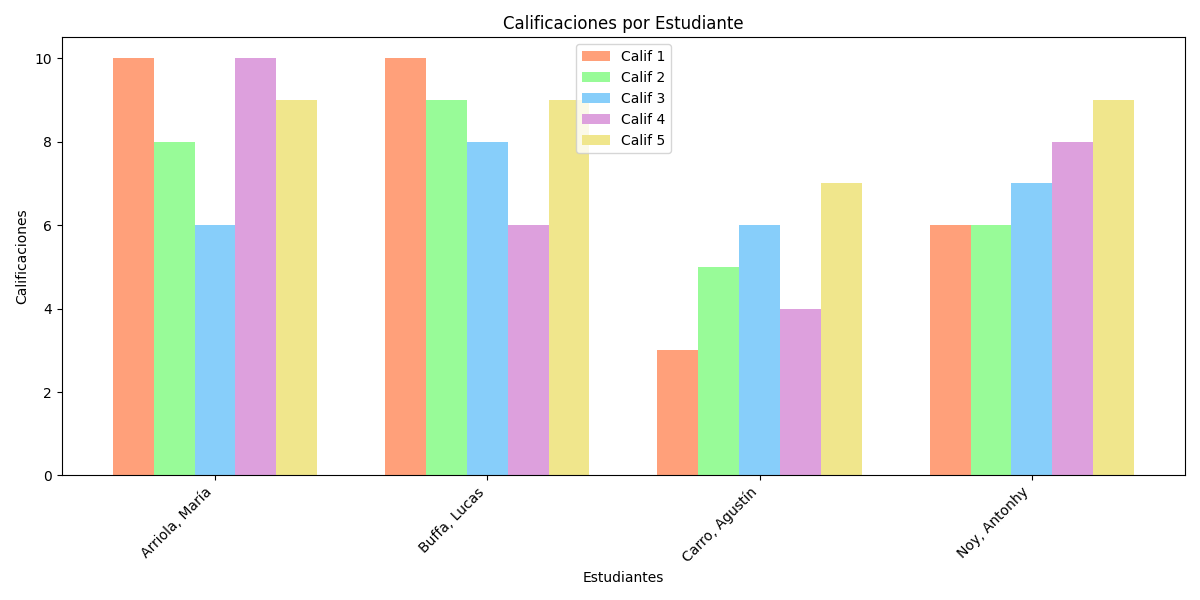
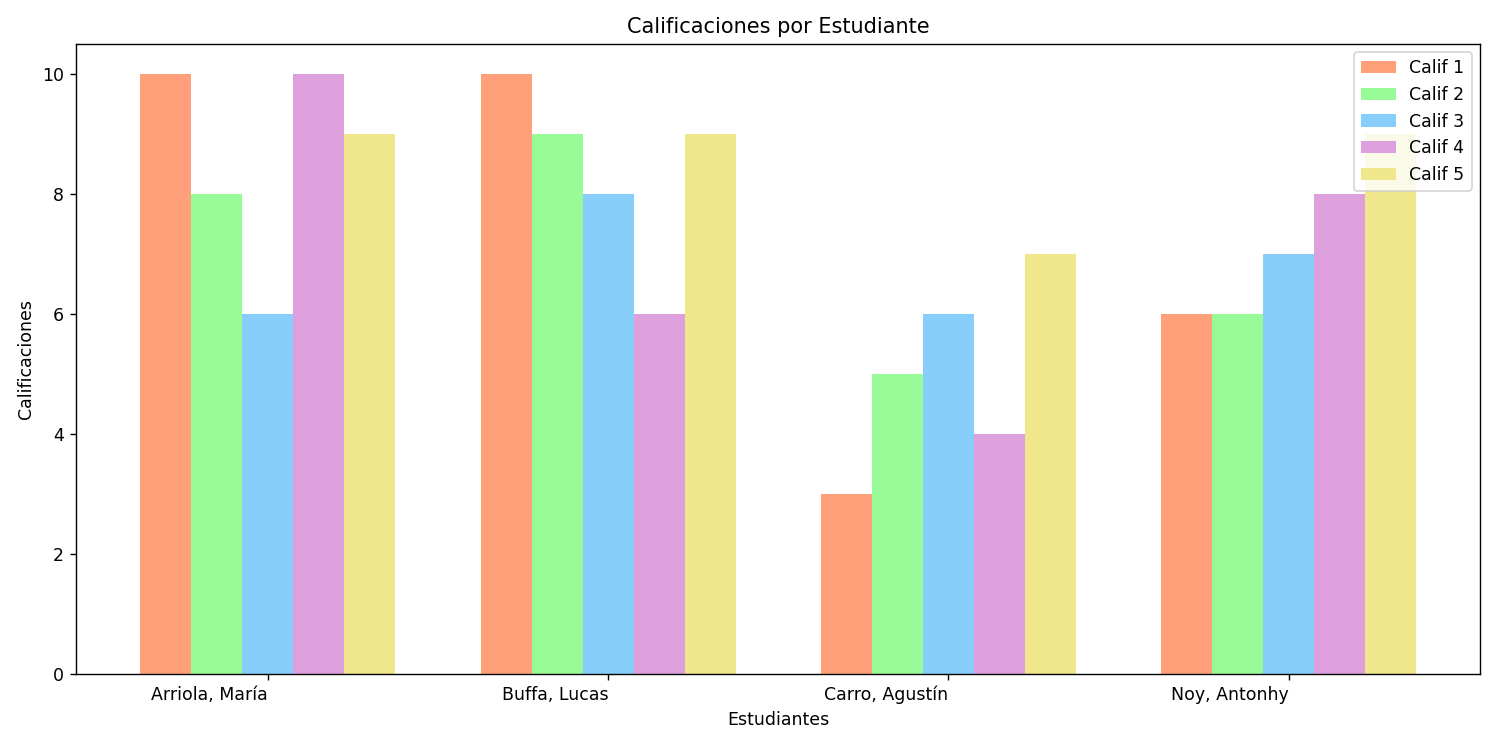
Commit

diff --git a/Gráfica_de_barras2_plt.py b/Gráfica_de_barras2_plt.py
@@ -36,7 +36,7 @@ def grafico_barras_estudiantes(estudiantes):
     plt.xlabel('Estudiantes')
     plt.ylabel('Calificaciones')
     plt.title('Calificaciones por Estudiante')
-    plt.xticks([r + ancho_barra*2 for r in range(len(nombres))], nombres, rotation=45, ha='right')
+    plt.xticks([r + ancho_barra*2 for r in range(len(nombres))], nombres, ha='right')
 
     # Añadir una leyenda
     plt.legend()
